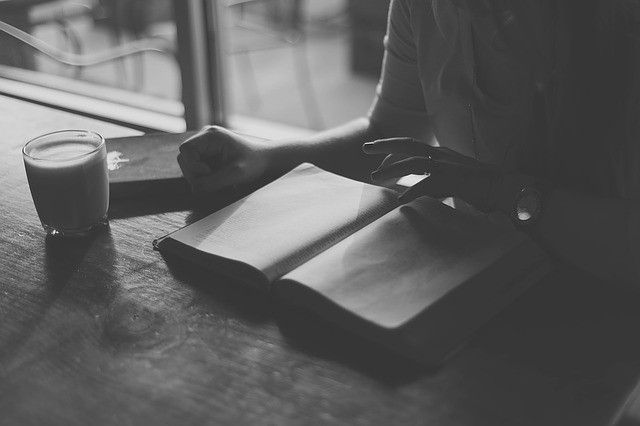
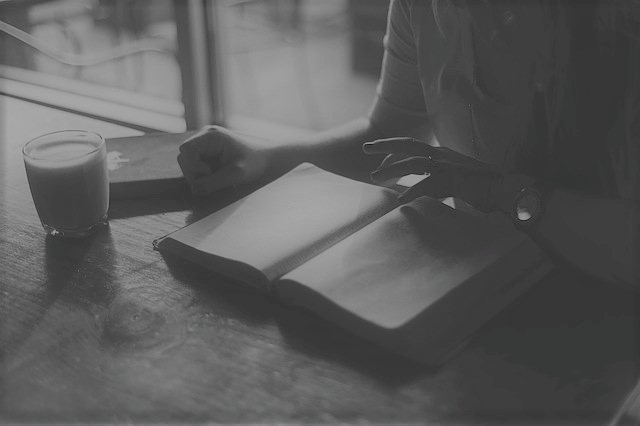
readme 개선 및 중복 코드 삭제

diff --git a/index.html b/index.html
@@ -9,7 +9,7 @@
         <script src="https://ajax.googleapis.com/ajax/libs/jquery/1.12.4/jquery.min.js"></script>
         <title></title>
     </head>
-    <body class="p-10 bg-cover bg-center bg-contain text-white" style="background-image: url('./Img/BodyImg2.jpg')">
+    <body class="p-10 bg-cover bg-center bg-contain text-white" style="background-image: url('./Img/BodyImg.jpg')">
         <header class="flex flex-row mb-20 justify-between h-12">
             <div>
                 <img src="./Img/LogoImg.png" class="h-full" alt="">

diff --git a/asset/submit.js b/asset/submit.js
@@ -19,6 +19,8 @@ $form.addEventListener("submit", e => {
         .then(res => {
             aiData = JSON.parse(res.choices[0].message.content)
             console.log(aiData)
+            
+            // 문제 재생성 시 기존 문제 제거
             if (document.getElementById("display")) {
                 document.getElementById("display").remove()
             }

diff --git a/asset/spread.js b/asset/spread.js
@@ -1,10 +1,5 @@
 function spreadData(aiData) {
     
-    // 문제 재생성 시 기존 문제 제거
-    if (document.getElementById("display")) {
-        document.getElementById("display").remove()
-    }
-
     // API 답변 출력할 div 생성 
     const $body = document.querySelector("body")
     const div = document.createElement("div")

diff --git a/readme.md b/readme.md
@@ -1,8 +1,27 @@
 # 문제 생성기
-   * 학생들 공부 도움을 위한 문제 생성기
-## 목표
-   * API 연동 문제 생성
-   * 생성된 문제 다운로드
-## 배포 URL
-   * https://kimyeongjo.github.io/project_ormi_1/
-## 폴더 트리
+   
+## 1. 목표 및 기능   
+* 학생들 공부 도움을 위한 문제 생성기
+* API 연동 문제 생성
+* 생성된 문제 다운로드
+## 2. 배포 URL
+* https://kimyeongjo.github.io/project_ormi_1/
+## 3. 폴더 트리
+```
+OrmiProject
+├─index.html
+|
+├─asset
+|  ├─main.js
+|  ├─savedata.js
+|  ├─submit.js
+|  ├─loading.js
+|  ├─spread.js
+|  └─toggle.js
+|
+└─img
+   ├─BodyImg.jpg
+   ├─GitImg.png
+   ├─LogoImg.png
+   └─LoadingImg.gif
+```
